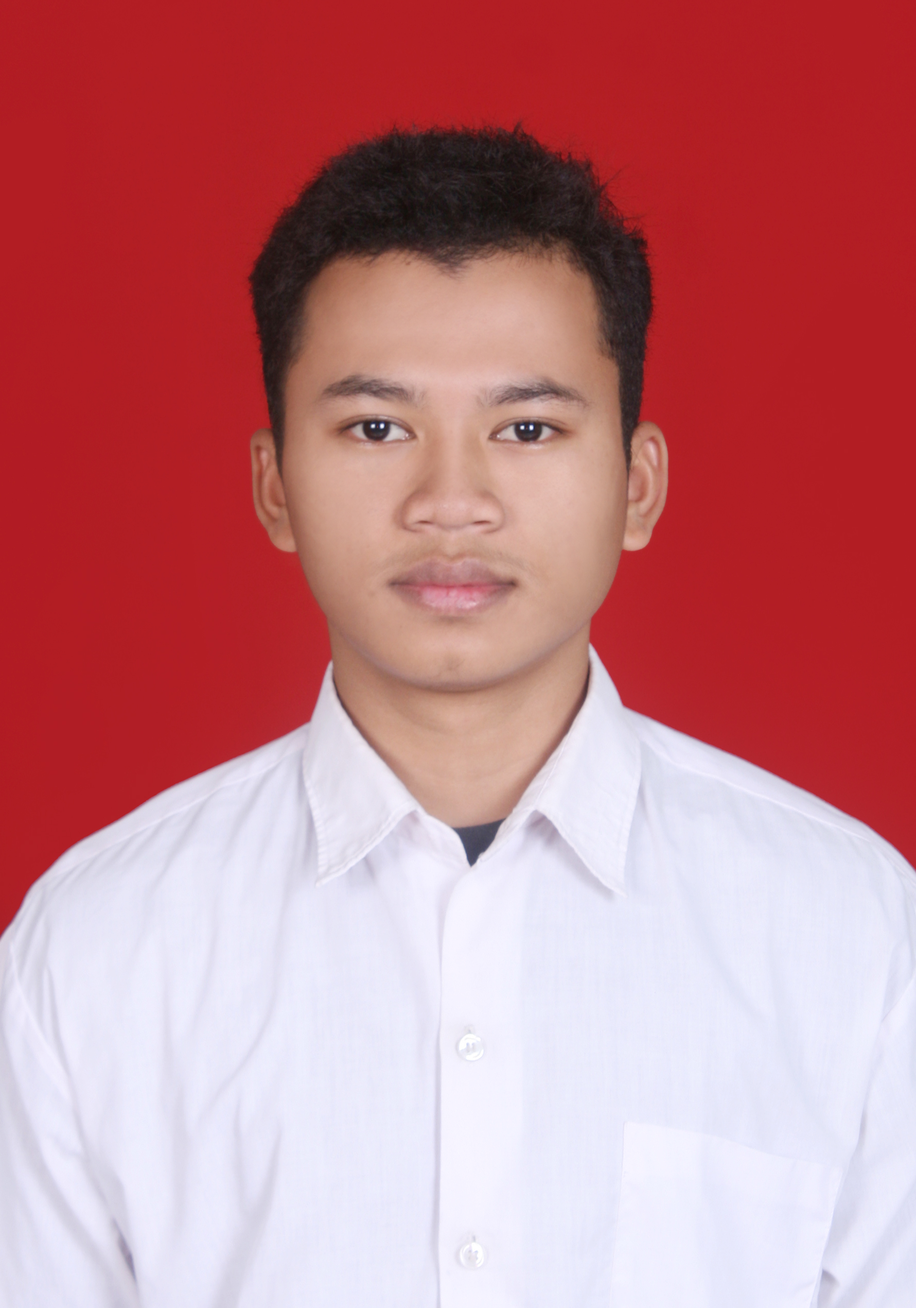
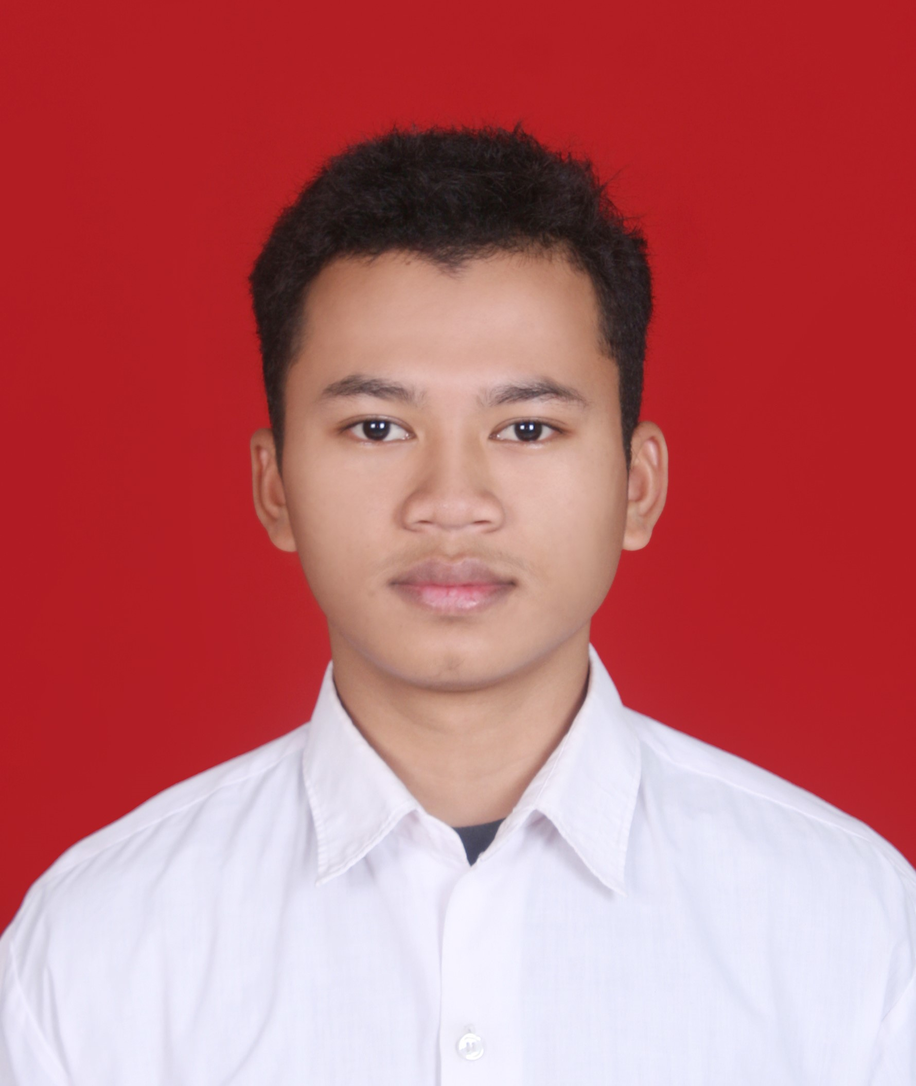
fix team photo and contact picture

diff --git a/index.html b/index.html
@@ -200,11 +200,13 @@
             <h2 class="fw-bold">Tentang Kami</h2>
             <p class="fw-semibold">Kami adalah tim yang berkomitmen untuk memajukan sektor perikanan dengan mengembangkan solusi teknologi yang memberdayakan nelayan Indonesia.</p>
           </div>
-
+      
           <div class="row text-center">
             <div class="col-xl-3 col-sm-6 mt-5">
-              <div class="bg-white rounded shadow py-5 px-4"><img src="image/alfi.jfif" alt="Alfisyhari" width="180" class="img-fluid rounded-circle mb-3 img-thumbnail shadow-sm">
-                <h5 class="mb-0">Alfisyhari</h5><span class="small text-uppercase text-muted">UI/UX</span>
+              <div class="bg-white rounded shadow py-5 px-4">
+                <img src="image/alfi.jfif" alt="Alfisyhari" class="team-photo img-fluid rounded-circle mb-3 img-thumbnail shadow-sm">
+                <h5 class="mb-0">Alfisyhari</h5>
+                <span class="small text-uppercase text-muted">UI/UX</span>
                 <ul class="social mb-0 list-inline mt-3">
                   <li class="list-inline-item"><a href="https://github.com/alfisyhari" target="_blank" class="social-link"><i class="fa-brands fa-github"></i></a></li>
                   <li class="list-inline-item"><a href="#" class="social-link"><i class="fa-brands fa-facebook"></i></i></a></li>
@@ -213,10 +215,12 @@
                 </ul>
               </div>
             </div>
-
+      
             <div class="col-xl-3 col-sm-6 mt-5">
-              <div class="bg-white rounded shadow py-5 px-4"><img src="image/johan.jpg" alt="Johan Reza Fauzi" width="180" class="img-fluid rounded-circle mb-3 img-thumbnail shadow-sm">
-                <h5 class="mb-0">Johan Reza Fauzi</h5><span class="small text-uppercase text-muted">Front End Developer</span>
+              <div class="bg-white rounded shadow py-5 px-4">
+                <img src="image/johan.jpg" alt="Johan Reza Fauzi" class="team-photo img-fluid rounded-circle mb-3 img-thumbnail shadow-sm">
+                <h5 class="mb-0">Johan Reza Fauzi</h5>
+                <span class="small text-uppercase text-muted">Front End Developer</span>
                 <ul class="social mb-0 list-inline mt-3">
                   <li class="list-inline-item"><a href="#"><i class="fa-brands fa-github"></i></a></li>
                   <li class="list-inline-item"><a href="#"><i class="fa-brands fa-facebook"></i></i></a></li>
@@ -225,10 +229,12 @@
                 </ul>
               </div>
             </div>
-
+      
             <div class="col-xl-3 col-sm-6 mt-5">
-              <div class="bg-white rounded shadow py-5 px-4"><img src="image/ramin.jpg" alt="Moch. Ramin" width="180" class="img-fluid rounded-circle mb-3 img-thumbnail shadow-sm">
-                <h5 class="mb-0">Moch. Ramin</h5><span class="small text-uppercase text-muted">Front End Developer</span>
+              <div class="bg-white rounded shadow py-5 px-4">
+                <img src="image/ramin.jpg" alt="Moch. Ramin" class="team-photo img-fluid rounded-circle mb-3 img-thumbnail shadow-sm">
+                <h5 class="mb-0">Moch. Ramin</h5>
+                <span class="small text-uppercase text-muted">Front End Developer</span>
                 <ul class="social mb-0 list-inline mt-3">
                   <li class="list-inline-item"><a href="#"><i class="fa-brands fa-github"></i></a></li>
                   <li class="list-inline-item"><a href="#"><i class="fa-brands fa-facebook"></i></i></a></li>
@@ -237,10 +243,12 @@
                 </ul>
               </div>
             </div>
-
+      
             <div class="col-xl-3 col-sm-6 mt-5">
-              <div class="bg-white rounded shadow py-5 px-4"><img src="image/arif.jpg" alt="Muhammad Arif" width="180" class="img-fluid rounded-circle mb-3 img-thumbnail shadow-sm">
-                <h5 class="mb-0">Muhammad Arif</h5><span class="small text-uppercase text-muted">Front End Developer</span>
+              <div class="bg-white rounded shadow py-5 px-4">
+                <img src="image/arif.jpg" alt="Muhammad Arif" class="team-photo img-fluid rounded-circle mb-3 img-thumbnail shadow-sm">
+                <h5 class="mb-0">Muhammad Arif</h5>
+                <span class="small text-uppercase text-muted">Front End Developer</span>
                 <ul class="social mb-0 list-inline mt-3">
                   <li class="list-inline-item"><a href="#"><i class="fa-brands fa-github"></i></a></li>
                   <li class="list-inline-item"><a href="#"><i class="fa-brands fa-facebook"></i></i></a></li>
@@ -249,10 +257,10 @@
                 </ul>
               </div>
             </div>
-
           </div>
-        </div> 
+        </div>
       </section>
+      
 
       <section id="kontak" class="mx-auto sections-bg-navy">
         <div class="container">

diff --git a/styles/main.css b/styles/main.css
@@ -43,7 +43,6 @@ body {
 
 #kontak img[alt='Contact Image'] {
   display: none;
-  height: 100%;
 }
 
 .form {
@@ -139,6 +138,12 @@ input[type='email'] {
   align-items: center;
   justify-content: center;
   border: 1px solid #bbbbbb;
+}
+
+.team-photo {
+  width: 180px;
+  height: 180px;
+  object-fit: cover;
 }
 
 /* footer */

diff --git a/styles/responsive.css b/styles/responsive.css
@@ -17,6 +17,8 @@
 
   #kontak img[alt="Contact Image"]  {
     display: block;
+    height: 100%;
+    object-fit: cover;
   }
 
   .form {
